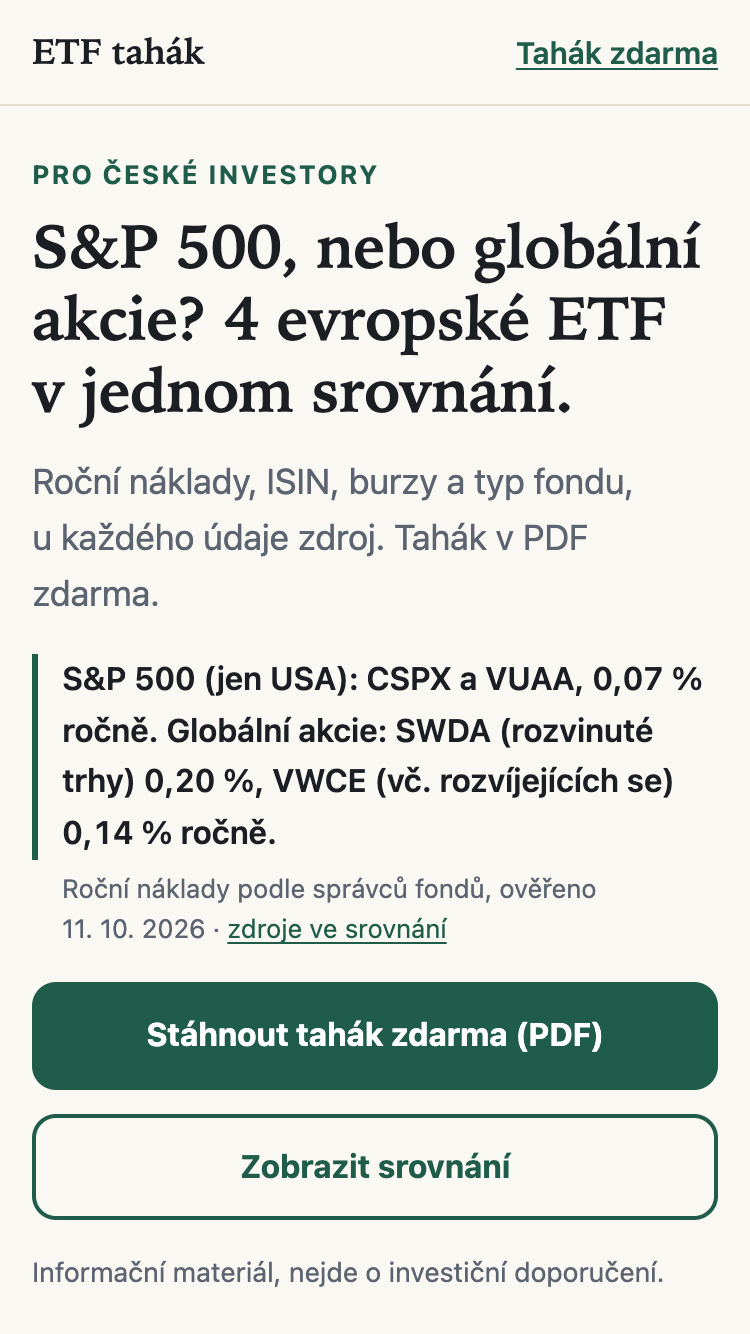
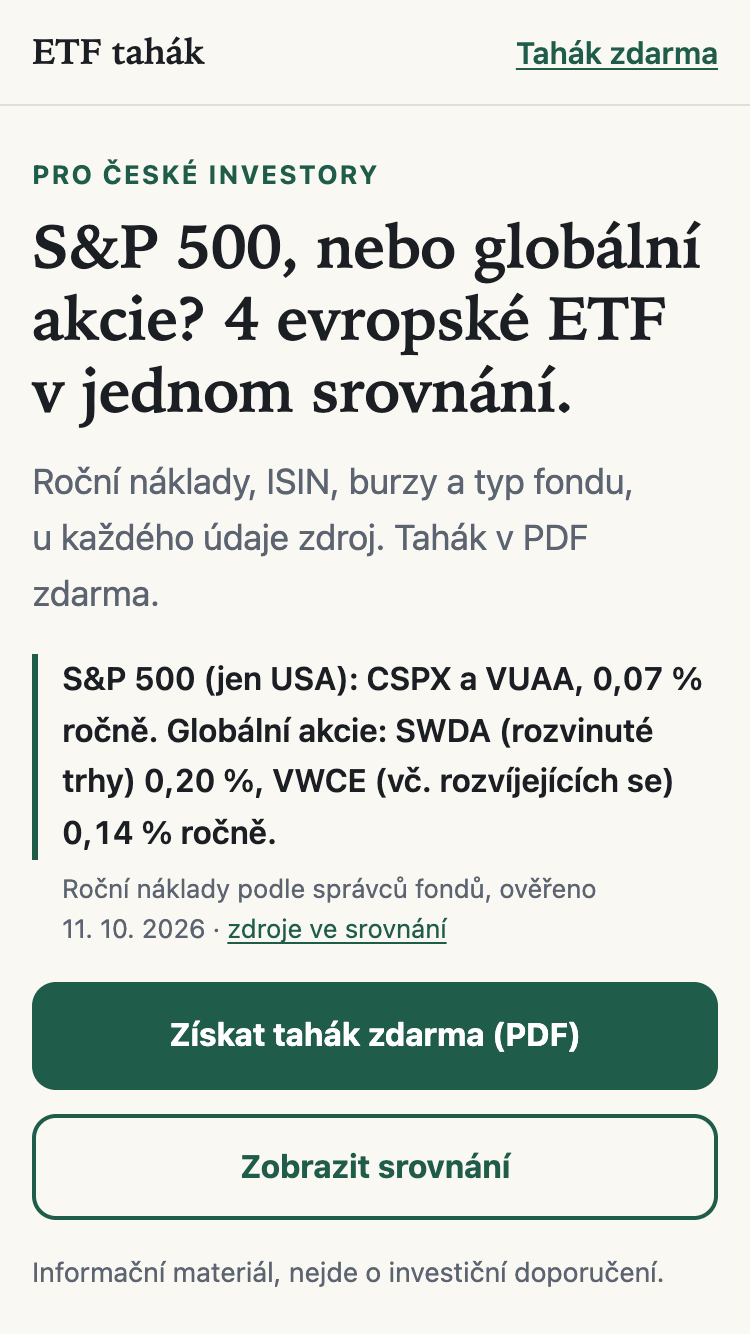
feat: CTA after the comparison, clearer hero CTA, README for submission
- index.html: CTA "Získat tahák se srovnáním (PDF)" right after the comparison
  footnotes, leading to the form (event compare_cta_click, browser-only like
  all events). Hero CTA renamed "Získat tahák zdarma (PDF)": it leads to the
  form and no longer promises a direct download.
- styles.css: .section-cta in the existing button style, full width on phones.
- README: quick start; page structure and section order with rationale;
  expected conversion as a hypothesis (4-8 %, assumptions, not measured);
  "How AI was used" (what was delegated, rules, how output was checked,
  where the AI was wrong and how it was fixed); event table; test counts.
- tests: 3 new tests (CTA position, style, tracking and landing at 375 and
  1280 px; hero CTA wording). 77/77.
- docs/screenshots/variant-b-375x667-light.png retaken with the new hero text.

Form stays in demo mode; no lead capture, analytics or deployment enabled.

Changed region(s): [[0.184, 0.7684, 0.7973, 0.7991]]

diff --git a/index.html b/index.html
@@ -37,7 +37,7 @@
         <p class="hero-teaser" id="hero-teaser">Místo SPY / VOO: CSPX nebo VUAA — stejný index S&amp;P&nbsp;500, roční náklady 0,07&nbsp;%.</p>
         <p class="hero-teaser-src">Roční náklady podle správců fondů, ověřeno 11.&nbsp;10.&nbsp;2026 · <a href="#srovnani">zdroje ve srovnání</a></p>
         <div class="hero-actions">
-          <a class="btn btn-primary" href="#tahak" data-track="cta_click">Stáhnout tahák zdarma (PDF)</a>
+          <a class="btn btn-primary" href="#tahak" data-track="cta_click">Získat tahák zdarma (PDF)</a>
           <a class="btn btn-ghost" href="#srovnani" data-track="compare_click">Zobrazit srovnání</a>
         </div>
         <p class="disclaimer-inline">Informační materiál, nejde o&nbsp;investiční doporučení.</p>
@@ -232,6 +232,9 @@
           <p id="pozn-vyjimky"><sup>*</sup> Hvězdičkou označujeme údaje, které nepochází přímo od správce fondu. Tickery SXR8 a&nbsp;EUNL uvádí správce na svém německém webu; že jde o&nbsp;tickery na burze Xetra, uvádí server justETF. Popis indexu MSCI World „velké a&nbsp;střední firmy“ pochází od poskytovatele indexu, společnosti MSCI. Při nákupu proto hledejte fond podle ISIN. Ticker se liší podle burzy, ISIN je stejný.</p>
           <p><strong>Dostupnost:</strong> neověřovali jsme nabídku jednotlivých českých brokerů ani registraci fondů pro veřejnou nabídku v&nbsp;ČR. Dostupnost a&nbsp;dokument KID v&nbsp;češtině si ověřte u&nbsp;svého brokera.</p>
         </div>
+
+        <!-- After the comparison: the next step is the PDF, which contains this comparison. -->
+        <p class="section-cta"><a class="btn btn-primary" href="#tahak" data-track="compare_cta_click">Získat tahák se srovnáním (PDF)</a></p>
       </div>
     </section>
 

diff --git a/assets/styles.css b/assets/styles.css
@@ -139,6 +139,10 @@ sup { font-size: .8125rem; line-height: 0; }
 .btn-primary { background: var(--accent); color: var(--accent-text); }
 .btn-ghost { background: transparent; color: var(--accent); }
 .disclaimer-inline { font-size: .85rem; color: var(--muted); margin-bottom: 0; }
+/* CTA at the end of a section (after the comparison). Full width on phones. */
+.section-cta { margin: var(--space-l) 0 0; }
+.section-cta .btn { width: 100%; }
+@media (min-width: 40rem) { .section-cta .btn { width: auto; } }
 /* Hero teaser: the ad's promise answered with sourced numbers. */
 .hero-teaser {
   margin: var(--space-m) 0 .25rem; padding-left: var(--space-s);

diff --git a/README.md b/README.md
@@ -19,6 +19,14 @@ A mobile-first, conversion-focused landing page for Czech retail investors arriv
 - **The PDF is not gated.** `assets/tahak-etf.pdf` is a public static file. It can be opened directly by its URL, it is linked from `dekujeme.html`, and its link is already in the landing page's HTML (shown after the demo submission). The form does not control access to it.
 - **No analytics provider is connected.** The GoatCounter tag is commented out. Events stay in the browser (`window.__events`, and the `?debug=1` panel). The only browser storage used is `sessionStorage` for UTM attribution; no cookies and no third-party scripts are loaded.
 
+### Quick start (local, nothing to install except Python 3)
+
+1. In the project folder run `python3 -m http.server 8000`.
+2. Open `http://localhost:8000/`. Ad variants: `?utm_content=ad_a_problem` or `?utm_content=ad_b_compare`. Add `&debug=1` to see the analytics events on the page.
+3. Optional, for the automated tests: `node tests/e2e.mjs`. This needs Node 22+ and Google Chrome; it uses the macOS Chrome path by default, or set `CHROME=/path/to/chrome`.
+
+The form runs in **demo mode**: you can submit it and get the PDF link, but nothing is sent or stored.
+
 | | |
 |---|---|
 | Project brief (summary) | [`docs/project-brief.md`](docs/project-brief.md) |
@@ -45,6 +53,23 @@ A mobile-first, conversion-focused landing page for Czech retail investors arriv
 - the KID sections as defined by PRIIPs Art. 8(3).
 
 After a (demo) submission, the download link appears at once on the page. The file itself is public and not protected by the form.
+
+## Page structure and section order
+
+The visitor comes from a mobile ad and gives the page a few seconds. The order moves them from the ad's question to the answer, to proof, and only then to the request for an e-mail.
+
+| # | Section | What it does | Why it is here |
+|---|---|---|---|
+| 0 | Sticky header with „Tahák zdarma" | One tap to the form from anywhere on the page | Visitors who are already convinced should not have to scroll back |
+| 1 | **Hero**: headline matched to the ad, one-line **teaser with sourced fees**, CTA „Získat tahák zdarma (PDF)", secondary „Zobrazit srovnání", not-advice line | Answers the ad's promise on the first screen. Variant A: „Místo SPY / VOO: CSPX nebo VUAA… 0,07 %". Variant B: S&P 500 vs global equities with fees. | The value must be visible before any form, and in the first seconds |
+| 2 | **„Proč nekoupím SPY nebo VOO?"** (3 short steps, with sources) | Explains the problem (missing KID under PRIIPs) | Names the frustration from ad A and builds trust before showing alternatives |
+| 3 | **„Srovnání"**: the S&P 500 UCITS cards (CSPX, VUAA), then global equity cards (SWDA, VWCE), then the US ETFs (collapsed), then the footnotes | The answer first, context later. On phones, secondary facts sit behind „Podrobnosti". | The visitor's question is "what can I buy instead?", so the alternatives come before the US originals |
+| 4 | **CTA after the comparison**: „Získat tahák se srovnáním (PDF)" | Leads to the form at the moment the value has been shown | The interactive element (the comparison) leads to the contact; the PDF contains this comparison |
+| 5 | **„Tahák"**: three bullets on what is inside, a preview of page 1, then the one-field form | The contact request | Asked only after the problem and the comparison: the value is clear before the form |
+| 6 | **FAQ** (UCITS, KID, ISIN vs ticker, Acc/Dist, TER, "is this advice?") | Handles objections | For visitors still undecided after the form; it does not delay the ask |
+| 7 | Footer | Full not-advice and risk notice | Required, but not part of the decision path |
+
+This order is a design decision, not a measured result. A/B hypothesis 2 below tests the main alternative (the form earlier).
 
 ## Data and sources
 
@@ -114,6 +139,26 @@ The site, both ads and the PDF share one editorial look:
 
 > Visitors who just hit a broker's refusal to sell a US ETF have a specific, urgent question. A page that answers it neutrally and with verifiable sources, and that offers a reusable checklist for the next step in their broker app, will convert better than a generic "invest in ETFs" page. Matching the headline to the ad's promise further reduces drop-off in the first seconds.
 
+### Expected conversion (hypothesis, not measured)
+
+**Planning range: 4–8 % of landing-page visitors submit their e-mail (midpoint about 6 %).** This is an assumption for planning, not a measured result and not taken from a verified benchmark. The site has never been live, so there is no real data yet.
+
+How the range is built, per 100 visitors from the ad:
+
+| Step | Event | Assumption |
+|---|---|---|
+| Land on the page | `page_view` | 100 |
+| See the comparison | `comparison_view` | 50–60 (mobile visitors leave quickly; the hero teaser already answers part of the question) |
+| Start the form | `form_start` | 10–15 (the PDF is free, specific and previewed; the form has one field) |
+| Submit a valid e-mail | `lead_success` (live) | 4–8 (some drop-off at the e-mail field, typical caution about financial topics) |
+
+Assumptions behind it:
+- **Traffic:** paid social on mobile, from people who are problem-aware (ad A) or comparison-curious (ad B). Ad A is expected to convert at the upper end (A/B hypothesis 1).
+- **Offer:** a free, specific cheat sheet with real numbers, visible before the form; only one required field; no double opt-in.
+- **Risks that would lower it:** an unknown brand, distrust of finance sites, and the PDF being available without the form.
+
+Once real collection and analytics are switched on, these numbers are replaced by measured ones (see [Going live](#going-live)).
+
 Primary metric (once live): **lead rate = `lead_success/<v>` ÷ `page_view/<v>`**, per ad variant `<v>`. Both come from the same `track()` source. In demo mode there are no leads; demo submissions are recorded as `demo_lead_success` and must not be counted as leads.
 
 ## A/B testing hypotheses (prioritised)
@@ -135,7 +180,8 @@ All funnel events, including the landing page view, are recorded by one function
 | Event path | Fires when |
 |---|---|
 | `page_view/<v>` | landing page (`index.html`) loaded; always the first event. Not fired on the thank-you page. |
-| `cta_click/<v>` | hero or header CTA ("Stáhnout tahák zdarma (PDF)", "Tahák zdarma") clicked |
+| `cta_click/<v>` | hero or header CTA ("Získat tahák zdarma (PDF)", "Tahák zdarma") clicked |
+| `compare_cta_click/<v>` | CTA after the comparison ("Získat tahák se srovnáním (PDF)") clicked |
 | `compare_click/<v>` | hero button "Zobrazit srovnání" clicked |
 | `comparison_view/<v>` | the **first UCITS fund's key facts** (annual costs, `#srovnani .card .fact-key`) are at least 50 % visible (once). This small element comes right after the section intro, so the "Zobrazit srovnání" jump reaches it on 320×640 and larger screens. On a 320×568 phone the intro fills the screen after the jump, and the event fires after a short further scroll. |
 | `form_start/<v>` | first focus in the form (once) |
@@ -252,7 +298,7 @@ ai-log/               Claude Code session exports (/export)
 
 ```sh
 python3 -m http.server 8000            # then open http://localhost:8000/?utm_content=ad_a_problem&debug=1
-node tests/e2e.mjs                     # 74 browser tests (CHROME=/path/to/chrome to override)
+node tests/e2e.mjs                     # 77 browser tests (CHROME=/path/to/chrome to override)
 ```
 
 To regenerate the PDF after editing `tahak.html`:
@@ -269,6 +315,7 @@ To regenerate the PDF after editing `tahak.html`:
   - **With JavaScript:** the controls are enabled and no request carries the e-mail.
   - **Events:** `demo_lead_success` in demo; `lead_success` only after a live 2xx, and neither after a server error.
   - **PDF:** reachable directly, without the form.
+- **CTAs:** the CTA after the comparison sits after the cards, the US table and the footnotes and before the form; it has the primary style, is full width and at least 44 px tall on phones, is tracked as `compare_cta_click` and lands on the form. The hero CTA leads to the form and does not promise a direct download.
 - **Privacy claims:**
   - the privacy page has no draft markers;
   - in the browser, after a demo submission and visits to every page: no cookies, an empty `localStorage`, only the attribution key in `sessionStorage` (no e-mail, no consent), and no requests to other hosts;
@@ -331,7 +378,7 @@ These are **future** steps. None of them is done; the current behaviour is descr
 ## What was tested, and what was not
 
 Tested locally:
-- 74/74 e2e tests pass.
+- 77/77 e2e tests pass.
 - W3C HTML validator: 0 errors on all pages except one intentional message, Netlify's non-standard `netlify-honeypot` attribute.
 - W3C CSS validator: no errors.
 - All 14 source links return HTTP 200.
@@ -354,9 +401,48 @@ Tested locally:
 - **The PDF is not gated:** it is a public static file (direct URL, linked from `dekujeme.html` and from the no-JS note). The form does not control access. This is acceptable for a free resource, but the form is not an access control.
 - **Data freshness:** fees and fund sizes change. Re-check them against the sources before any real campaign.
 
-## AI usage
+## How AI was used
 
-Built with Claude Code. Session exports created with `/export` are stored in [`ai-log/`](ai-log/) (`*.txt`), unedited except for one documented e-mail redaction (below). [`ai-log/DECISIONS.md`](ai-log/DECISIONS.md) is a separate written summary of decisions and corrections, drafted with Claude and reviewed by the owner. It is not an export.
+**Setup.** The project was built in one Claude Code session (model Claude Opus 5.5), with no sub-agents. The owner gave instructions step by step. The agent worked in stages and stopped for review. Since 2026-10-11 it stops after **every** milestone; passing tests do not count as approval. Commits, the history rewrite and any outward step happen only after the owner's explicit approval.
+
+**What was delegated to the agent**
+- Research and data verification: web search, reading issuer factsheets (PDF text extraction), checking listing venues, fees, dates and fund sizes.
+- Code: HTML, CSS and JavaScript of the page, the form in demo mode, attribution and analytics events, accessibility details.
+- A dependency-free browser test suite (`tests/e2e.mjs`), validators, screenshots.
+- The two ads, the PDF cheat sheet and its preview, the documentation.
+- Audits on request (data, privacy, requirements) and Git operations, including the e-mail history rewrite (with backup and an approved plan).
+
+**What the owner decided or did**
+- Choices: the NYSE Arca interpretation, Netlify and GoatCounter as the plan, demo-only form, the „globální akcie" wording, privacy approach, publishing.
+- Manual checks in the browser, the answer to open questions, account creation, and the `/export` command.
+
+**Instructions the agent worked under** (from the owner's prompts):
+- Do not invent prices, fees, tickers, sources or availability claims; label anything unverified.
+- Never fabricate logs; only genuine `/export` files go into `ai-log/`.
+- No dependencies, no new services, no real data collection until a privacy notice exists.
+- Explain planned changes before risky steps (history rewrite) and stop for approval.
+
+**How the output was checked**
+- **Automated browser tests:** 77 tests run in headless Chrome against a local mock server, for layout at 320–1280 px, form behaviour with and without JavaScript, events, data consistency between page, PDF and ads, and privacy claims.
+- **Mutation runs:** new tests were also run against the previous code to confirm they fail without the change.
+- **Validators and links:** W3C HTML/CSS validators, link checks of all sources.
+- **Screenshots:** reviewed at mobile and desktop widths in light and dark.
+- **Data audit:** against issuer factsheets; the owner independently checked three values.
+- **Owner review:** manual checks after milestones.
+
+**Where the AI was wrong, and how it was fixed** (details in [`ai-log/DECISIONS.md`](ai-log/DECISIONS.md)):
+1. **Data sources.** First data partly came from justETF (secondary) because Vanguard's VOO page did not load. It was replaced by issuer factsheets, and one fee conflict (VWCE 0.19 % vs 0.14 %) was resolved to the issuer's 0.14 %.
+2. **Page copy.** The page said all data was verified with the fund managers, which was not literally true. The wording was corrected, and the exceptions are marked with an asterisk.
+3. **Analytics gaps found by the owner's manual test:** unrecognised `utm_content` values, an untracked button, `comparison_view` not firing, and no `page_view`. 19 passing tests had missed them.
+4. **A false technical claim.** The agent stated that an old visibility check fired at 1px. A mutation test and direct observation showed this was false in Chrome; it was corrected openly.
+5. **Mistakes in its own tests:** a regex escaped wrongly in a template string, `-0` not returned by DevTools, a missing key-event detail. Each was caught by a mutation run or a failing test.
+6. **Visual and document bugs:** a strip of the wrong background under the header after anchor jumps (scroll margin larger than the header), and the PDF growing to 3 pages after a restyle. Both were fixed and are covered by tests.
+7. **Privacy bug found in the pre-submission audit.** Without JavaScript, the demo form could still POST the e-mail. A test against the old markup confirmed it; it was fixed by disabling the controls until JavaScript runs. Demo submissions also emitted the real `lead_success`; they now emit `demo_lead_success`.
+8. **Process.** Early on, the agent completed several milestones in one run. The owner then required a stop after each milestone.
+
+### Session exports
+
+Session exports created with `/export` are stored in [`ai-log/`](ai-log/) (`*.txt`), unedited except for one documented e-mail redaction (below). [`ai-log/DECISIONS.md`](ai-log/DECISIONS.md) is a separate written summary of decisions and corrections, drafted with Claude and reviewed by the owner. It is not an export.
 
 There are two genuine exports of the same Claude Code session. They are **cumulative**: each `/export` contains the whole conversation from its first prompt up to the moment of export.
 
